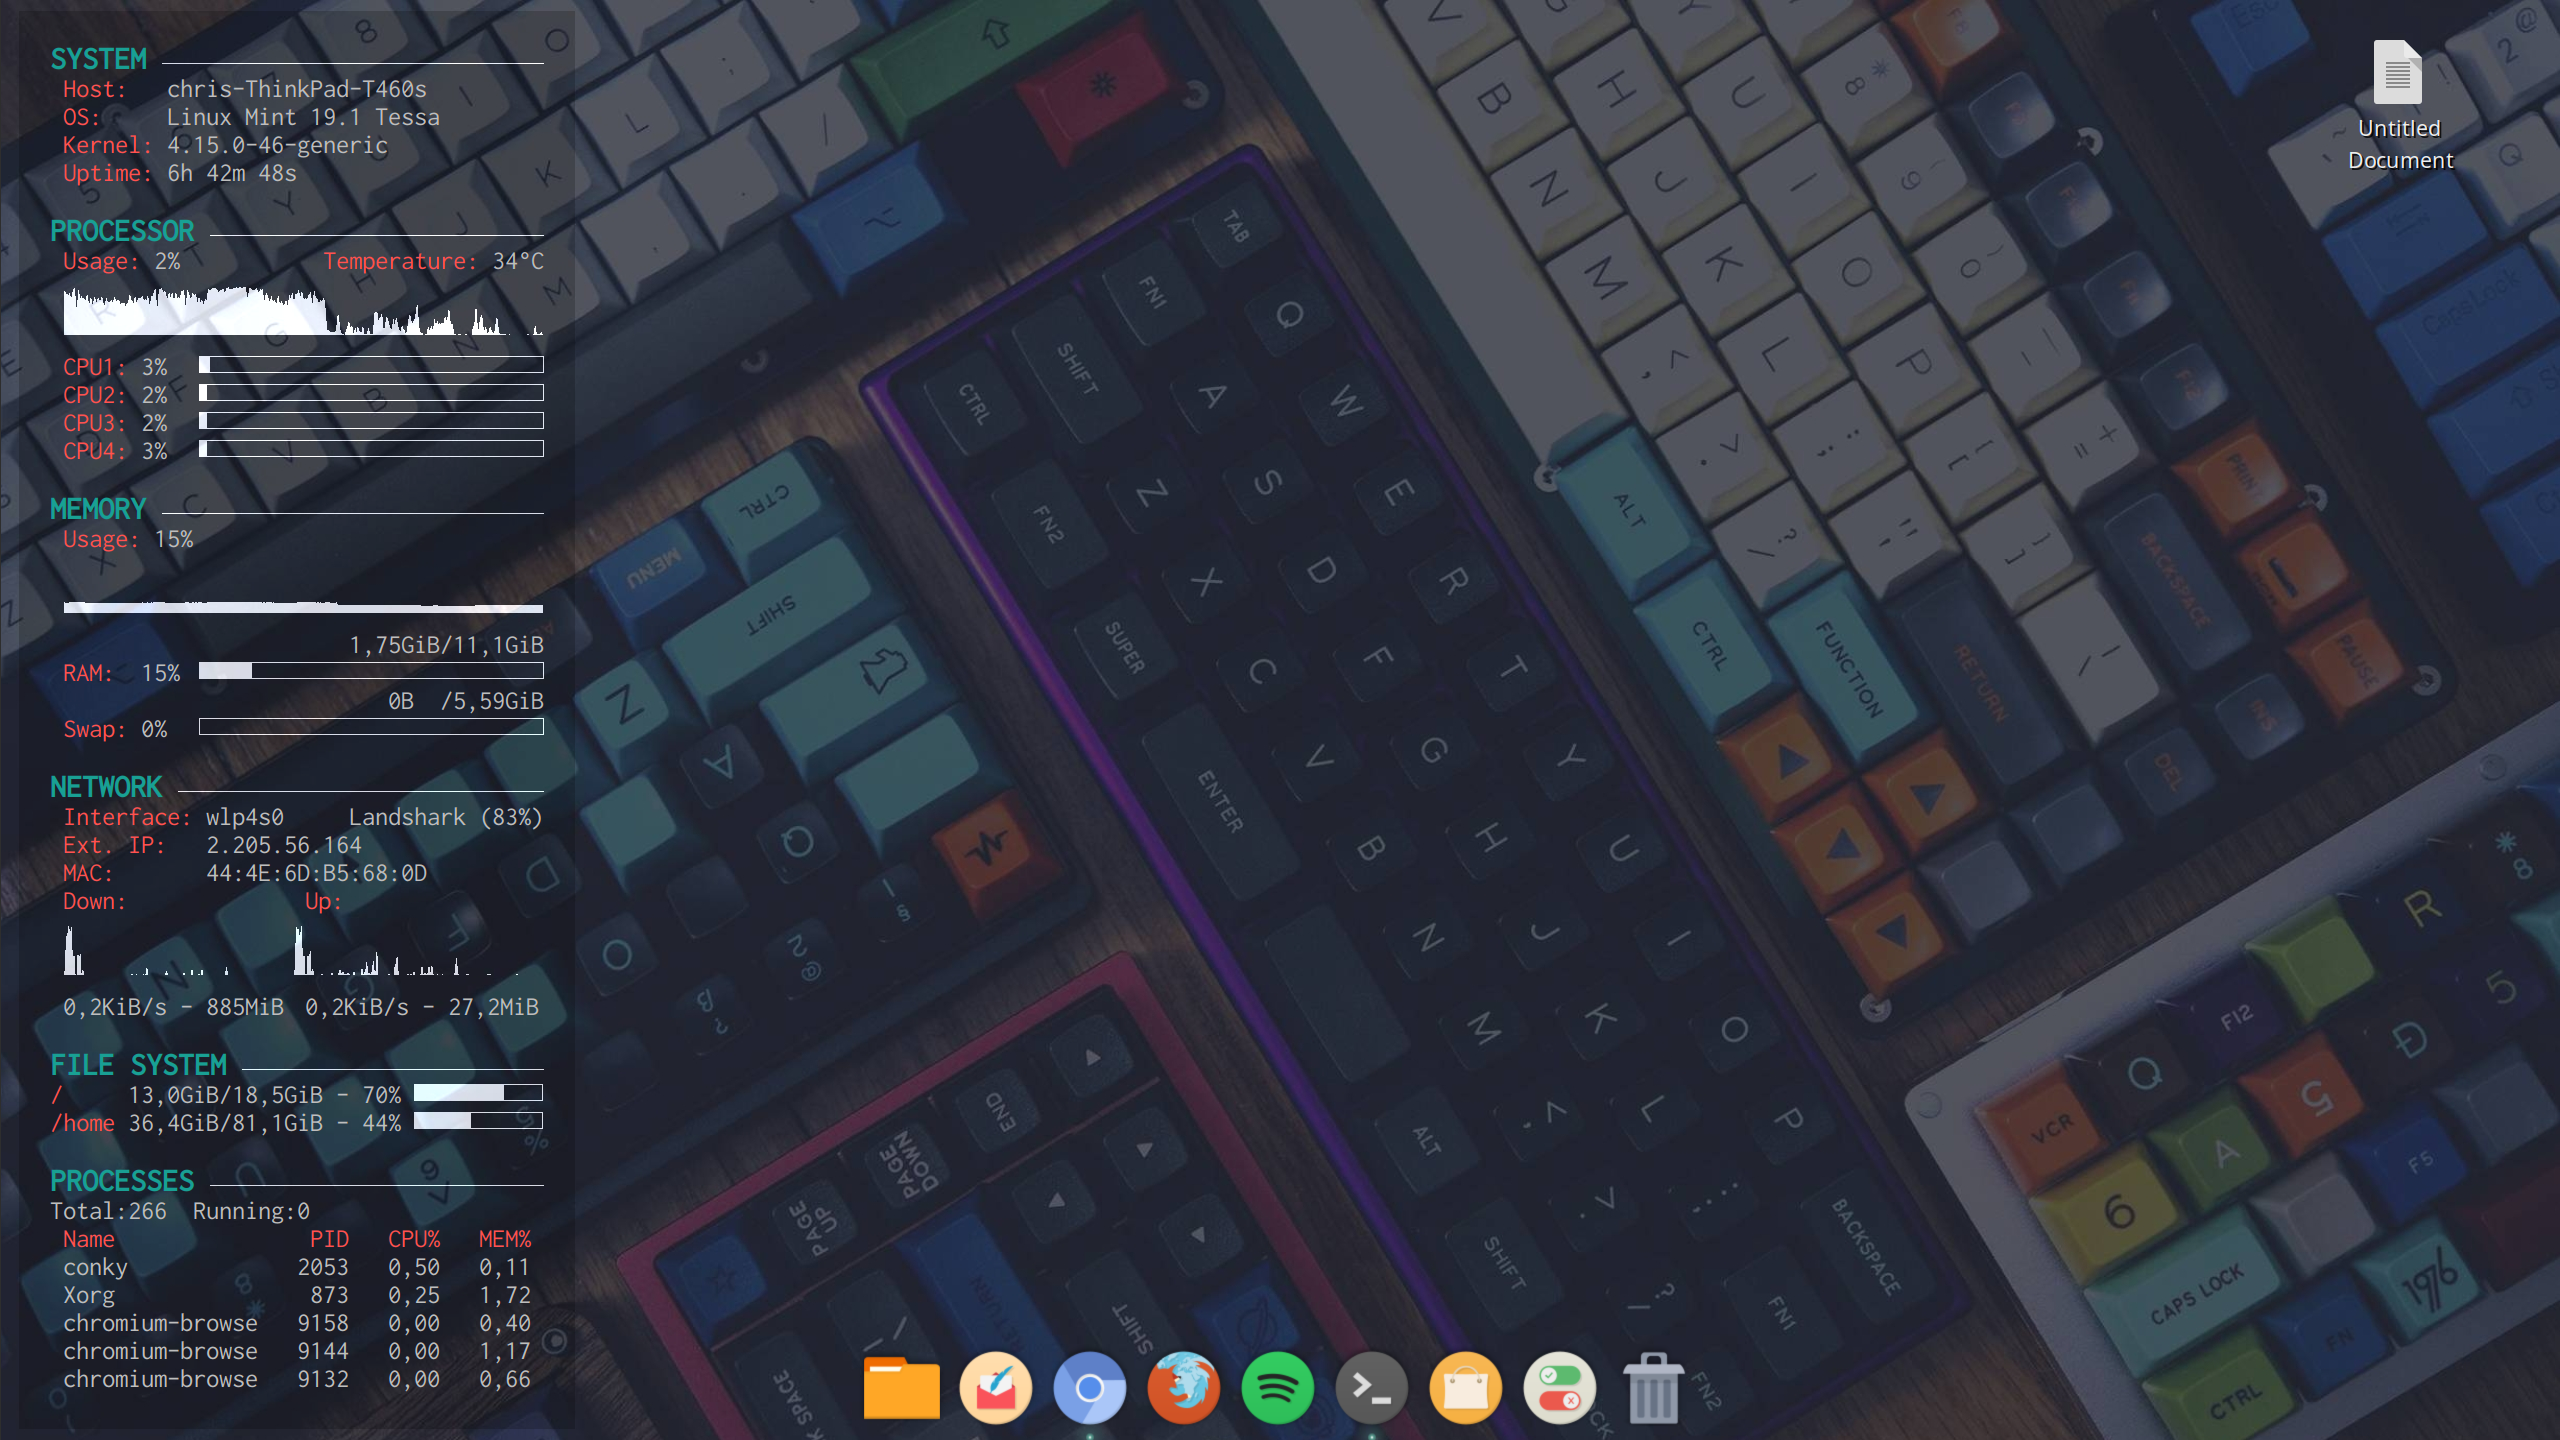
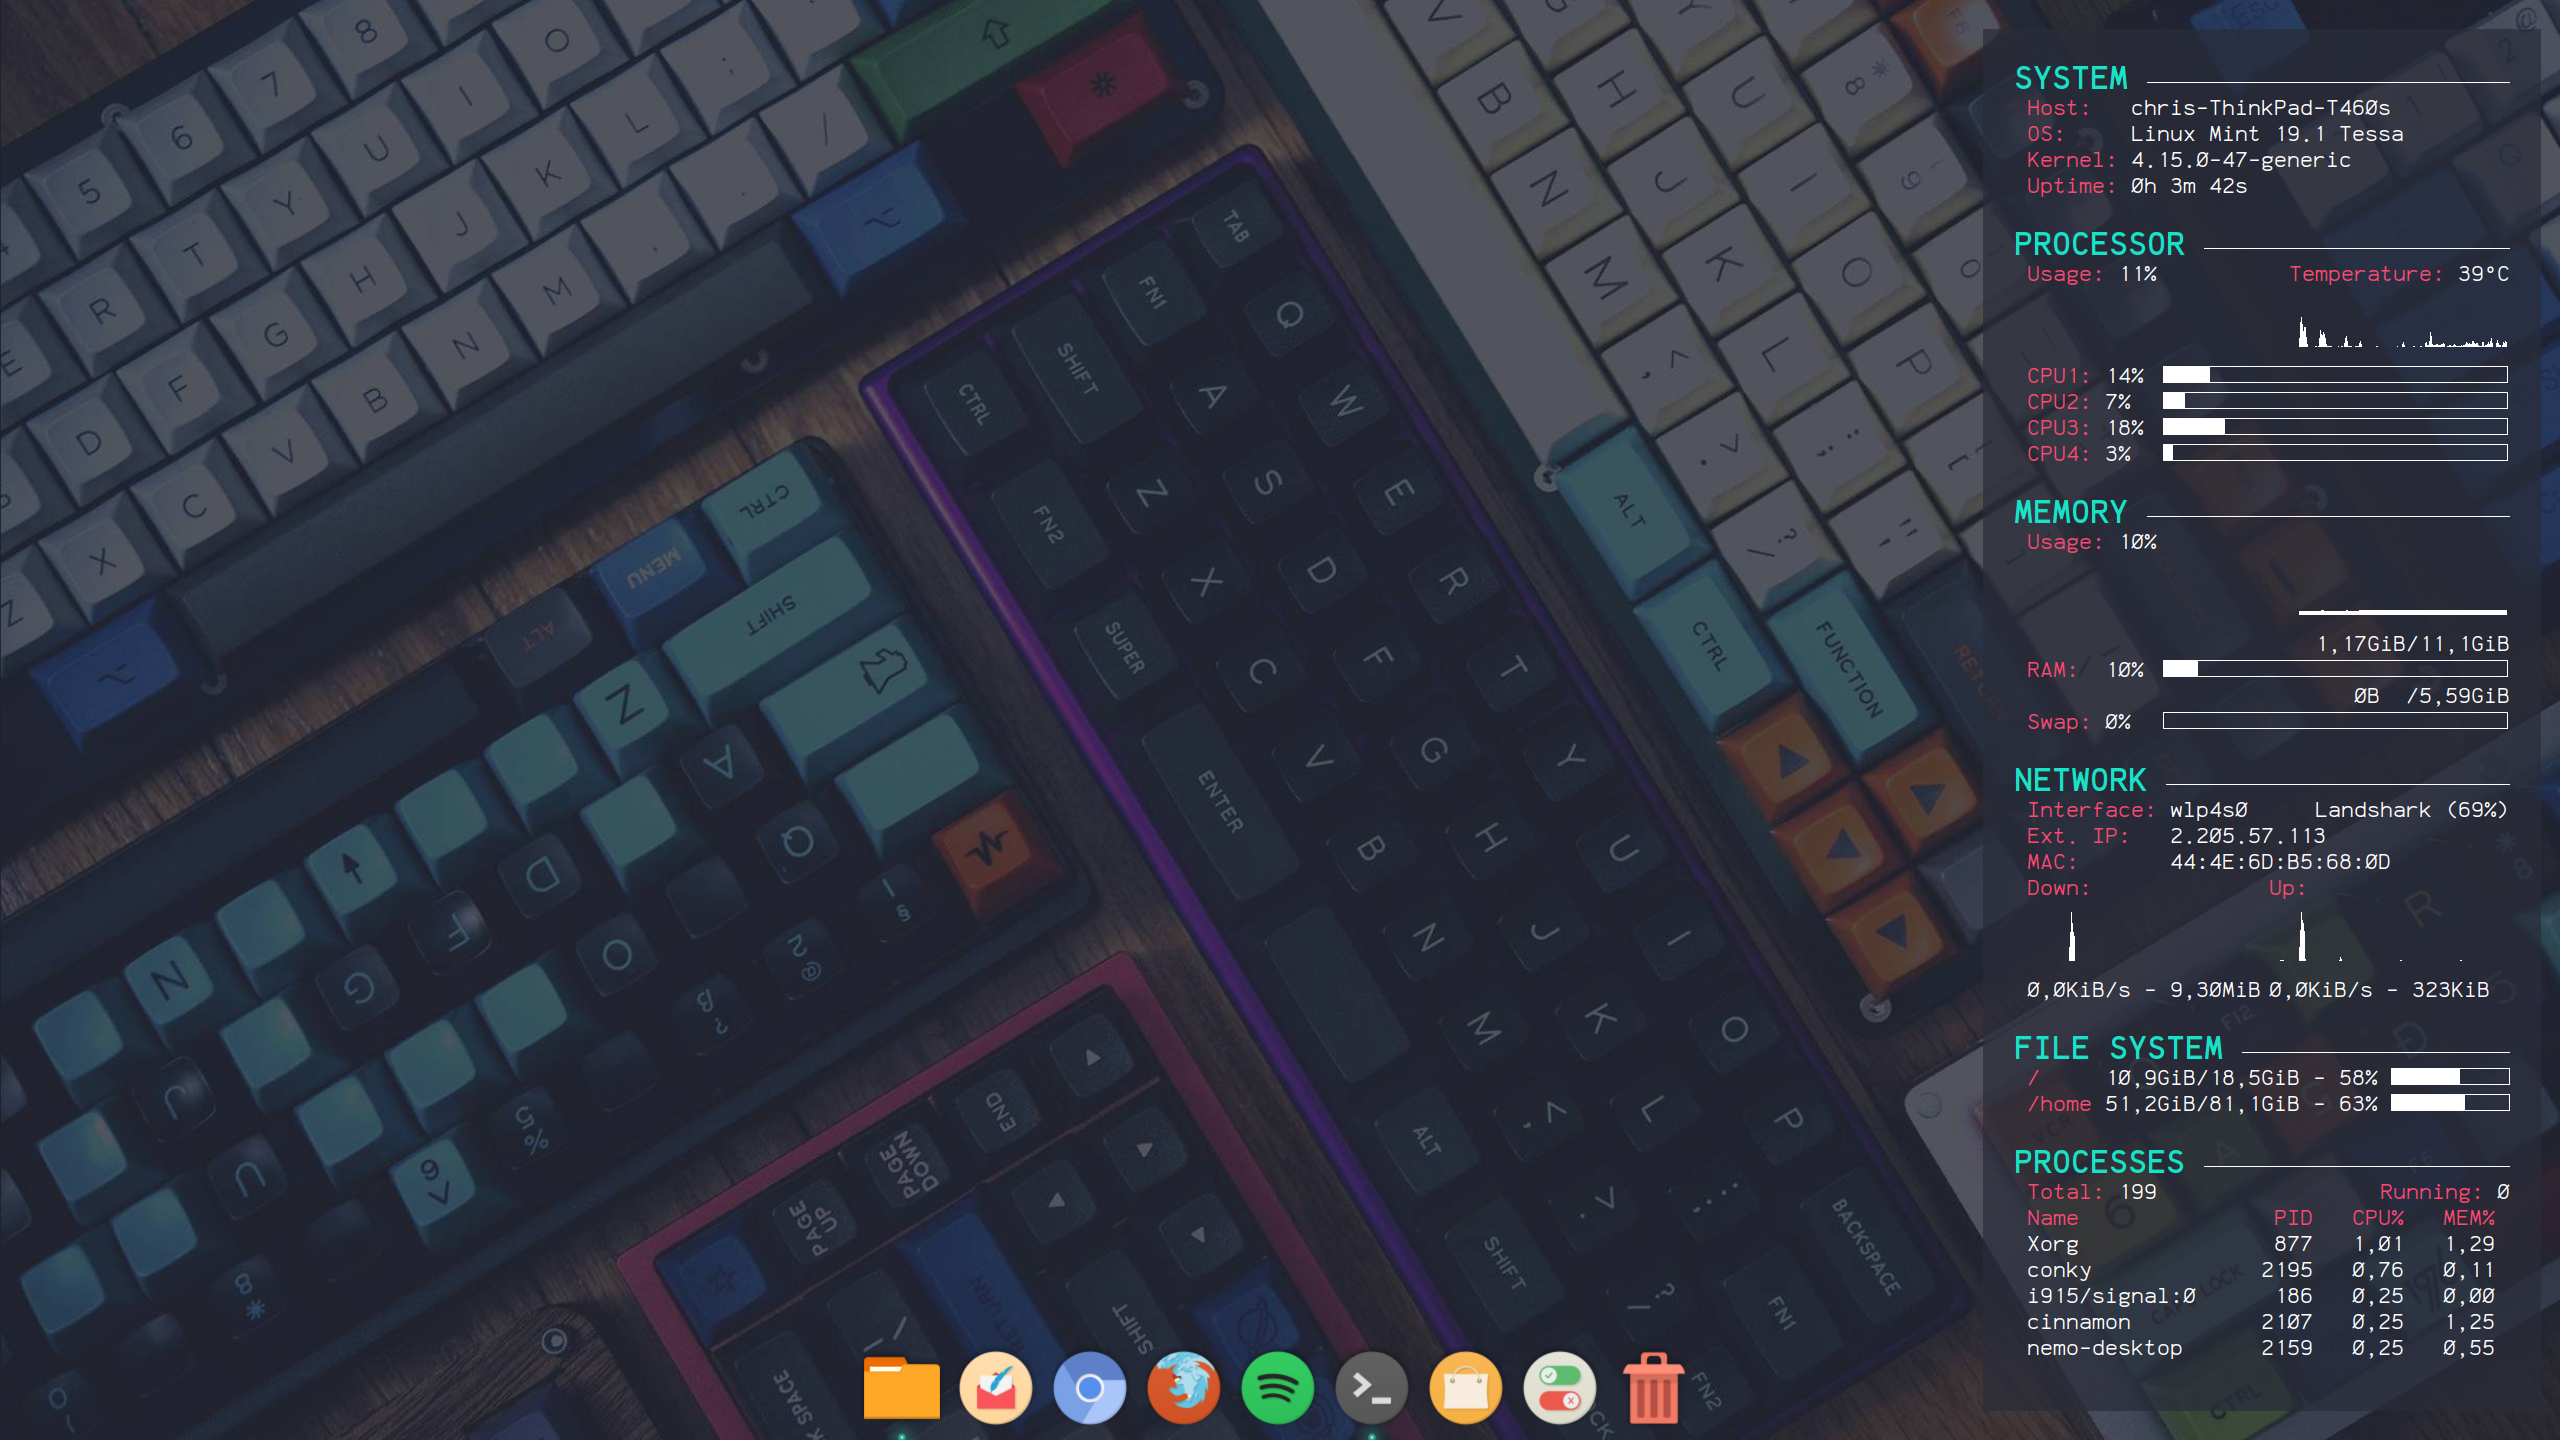
Update preview.png and README.md

diff --git a/README.md b/README.md
@@ -2,5 +2,7 @@
 A collection of my Conky configuration files.
 
 - ### [Teal Red](https://github.com/chris-winta/Conky-Themes/tree/master/Teal_Red)
-    A Conky theme which is strongly inspired by [this Reddit post](https://www.reddit.com/r/Conkyporn/comments/9czm1n/finally_somewhat_happy_with_my_conky/) by [u/Trip-3R](https://www.reddit.com/user/Trip-3R). I have modified the layout and fonts, but kept the overall design and colors from the original.
-    ![alt text](Teal_Red/preview.png "Logo Title Text 1")
+    A Conky theme strongly inspired by [this Reddit post](https://www.reddit.com/r/Conkyporn/comments/9czm1n/finally_somewhat_happy_with_my_conky/) from [u/Trip-3R](https://www.reddit.com/user/Trip-3R). I have changed the colors and fonts, and slightly modified the overall layout.
+    ![Teal Red preview](Teal_Red/preview.png "Teal Red preview")
+    __Requirements:__
+    - [Anka/Coder font family](https://code.google.com/archive/p/anka-coder-fonts/)
